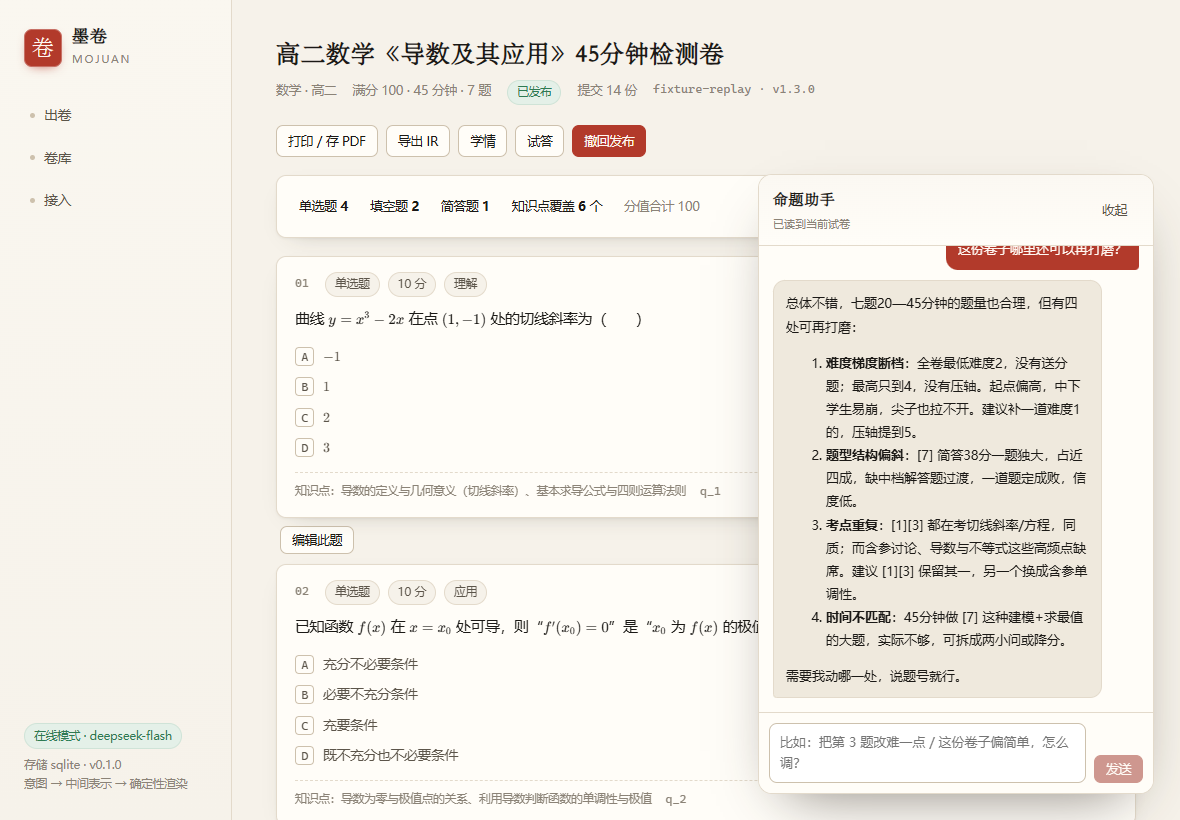
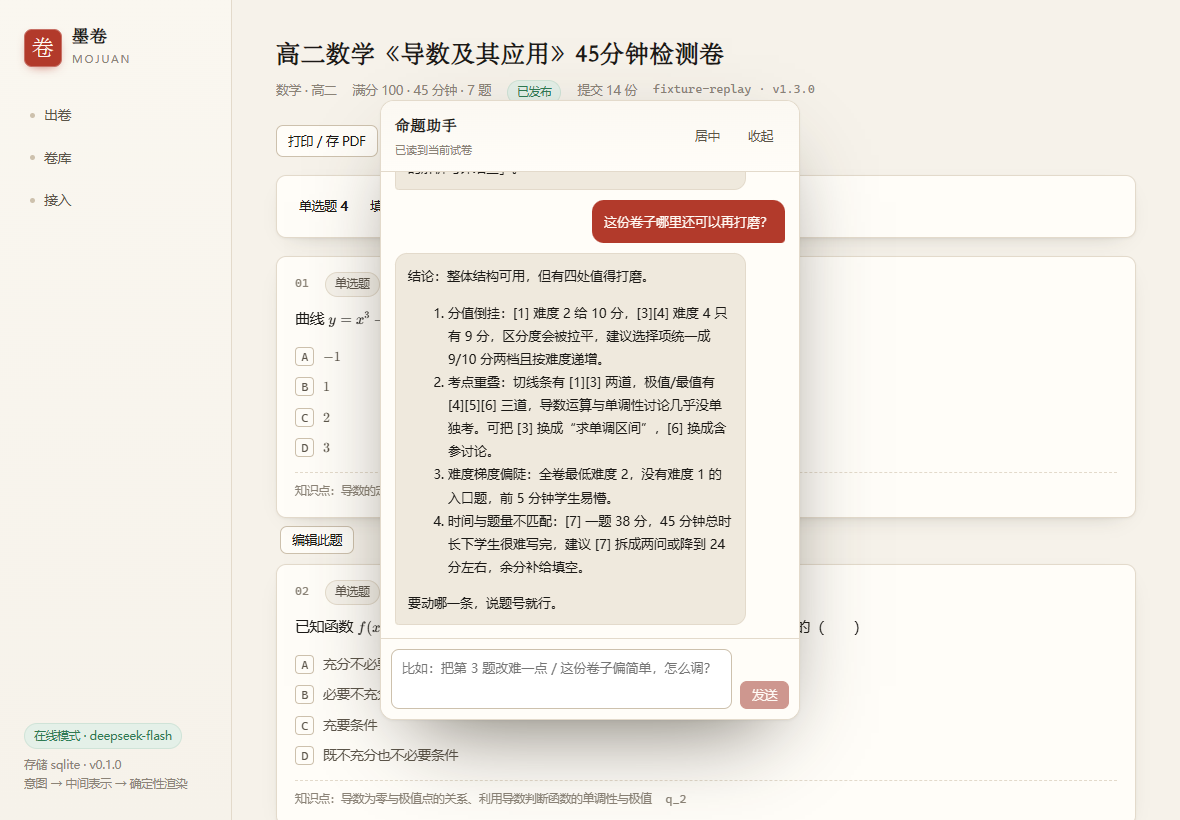
feat(assistant): 助手改为居中悬浮窗，窗口与小浮球都可拖动
- 打开时居中显示，不再挤在右下角
- 标题栏可拖动，位置存 localStorage；双击标题栏复位居中
- 收起后变回小浮球，浮球同样可拖，拖完不会误触打开面板
- Esc 关闭；窗口 resize 时自动把悬浮窗拉回可视区
- 拖动判定用 ref 而非 state：pointerup 的 setState 是异步的，click 处理器读不到新值

Prompt-ID: P18

Changed region(s): [[0.3051, 0.122, 0.9763, 1.0], [0.6407, 0.1524, 0.6712, 0.1829], [0.5797, 0.1524, 0.6102, 0.1829]]

diff --git a/web/src/components/assistant.tsx b/web/src/components/assistant.tsx
@@ -1,4 +1,4 @@
-import { useEffect, useRef, useState } from 'react'
+import { useCallback, useEffect, useRef, useState } from 'react'
 import type { AssistantContext, AssistantEvent } from '@shared/assistant.js'
 import { streamAssistant } from '../api.js'
 import { RichText } from './rich-text.js'
@@ -17,8 +17,102 @@ const GREETING: Message = {
     '我是命题助手。可以问我怎么把大纲写得更可考，也可以直接让我动手——比如「把第 3 题改难一点」「第 5 题的解析写详细些」。',
 }
 
+const PANEL_W = 420
+const PANEL_H = 620
+const MARGIN = 12
+
+function loadPos(key: string): { x: number; y: number } | null {
+  try {
+    const raw = localStorage.getItem(key)
+    if (!raw) return null
+    const parsed = JSON.parse(raw) as { x?: number; y?: number }
+    if (typeof parsed.x !== 'number' || typeof parsed.y !== 'number') return null
+    return clamp(parsed.x, parsed.y, PANEL_W, PANEL_H)
+  } catch {
+    return null
+  }
+}
+
+function clamp(x: number, y: number, w: number, h: number): { x: number; y: number } {
+  const maxX = Math.max(MARGIN, window.innerWidth - w - MARGIN)
+  const maxY = Math.max(MARGIN, window.innerHeight - h - MARGIN)
+  return { x: Math.min(Math.max(MARGIN, x), maxX), y: Math.min(Math.max(MARGIN, y), maxY) }
+}
+
 /**
- * 全局 AI 助手：悬浮在右下角，知道自己当前在哪一页、哪份卷子。
+ * 拖动：按下记起点，移动超过 3px 才认作拖拽（否则算点击）。
+ * 位置存 localStorage，下次打开还在原地；双击标题栏复位到居中。
+ */
+function useDraggable(storageKey: string, width: number, height: number) {
+  const [pos, setPos] = useState<{ x: number; y: number } | null>(() => loadPos(storageKey))
+  const [dragging, setDragging] = useState(false)
+  const drag = useRef<{ sx: number; sy: number; ox: number; oy: number; moved: boolean } | null>(null)
+  const latest = useRef(pos)
+  latest.current = pos
+  // 松手后浏览器还会补一个 click，用这个标记把它和"真的点击"区分开。
+  // 不能用 state：pointerup 里 setState 是异步的，click 处理器读到的还是旧值。
+  const lastMoved = useRef(false)
+
+  const onPointerDown = (event: React.PointerEvent<HTMLElement>): void => {
+    if (event.button !== 0) return
+    const rect = event.currentTarget.getBoundingClientRect()
+    drag.current = { sx: event.clientX, sy: event.clientY, ox: rect.left, oy: rect.top, moved: false }
+    event.currentTarget.setPointerCapture(event.pointerId)
+    setDragging(true)
+  }
+
+  const onPointerMove = (event: React.PointerEvent<HTMLElement>): void => {
+    const state = drag.current
+    if (!state) return
+    const dx = event.clientX - state.sx
+    const dy = event.clientY - state.sy
+    if (!state.moved && Math.abs(dx) + Math.abs(dy) <= 3) return
+    state.moved = true
+    setPos(clamp(state.ox + dx, state.oy + dy, width, height))
+  }
+
+  const onPointerUp = (): void => {
+    const state = drag.current
+    drag.current = null
+    setDragging(false)
+    lastMoved.current = state?.moved ?? false
+    if (state?.moved && latest.current) {
+      localStorage.setItem(storageKey, JSON.stringify(latest.current))
+    }
+  }
+
+  const reset = useCallback((): void => {
+    localStorage.removeItem(storageKey)
+    setPos(null)
+  }, [storageKey])
+
+  /** 取走"刚刚是拖拽"这一事实，取完即清 */
+  const consumeDrag = useCallback((): boolean => {
+    const moved = lastMoved.current
+    lastMoved.current = false
+    return moved
+  }, [])
+
+  // 窗口变小后把窗口拉回可视区，别让它飘到屏幕外
+  useEffect(() => {
+    const onResize = (): void => {
+      setPos((prev) => (prev ? clamp(prev.x, prev.y, width, height) : prev))
+    }
+    window.addEventListener('resize', onResize)
+    return () => window.removeEventListener('resize', onResize)
+  }, [width, height])
+
+  return {
+    pos,
+    dragging,
+    reset,
+    consumeDrag,
+    handlers: { onPointerDown, onPointerMove, onPointerUp, onPointerCancel: onPointerUp },
+  }
+}
+
+/**
+ * 全局 AI 助手：居中悬浮窗，标题栏可拖动，收起后变成可拖动的小浮球。
  * 它不只是聊天——模型可以在回答末尾挂一个动作块，服务端会真的去改题。
  */
 export function Assistant({ context }: { context: AssistantContext }) {
@@ -30,6 +124,9 @@ export function Assistant({ context }: { context: AssistantContext }) {
   const abortRef = useRef<(() => void) | null>(null)
   const listRef = useRef<HTMLDivElement>(null)
 
+  const panel = useDraggable('mujuan:assistant:panel', PANEL_W, Math.min(PANEL_H, window.innerHeight - 48))
+  const fab = useDraggable('mujuan:assistant:fab', 58, 58)
+
   useEffect(() => () => abortRef.current?.(), [])
 
   useEffect(() => {
@@ -37,6 +134,16 @@ export function Assistant({ context }: { context: AssistantContext }) {
     const el = listRef.current
     if (el) el.scrollTop = el.scrollHeight
   }, [messages, open])
+
+  // Esc 关闭：没有遮罩，键盘是主要的退出方式
+  useEffect(() => {
+    if (!open) return
+    const onKey = (e: KeyboardEvent): void => {
+      if (e.key === 'Escape') setOpen(false)
+    }
+    window.addEventListener('keydown', onKey)
+    return () => window.removeEventListener('keydown', onKey)
+  }, [open])
 
   const patchLast = (patch: Partial<Message>): void => {
     setMessages((prev) => {
@@ -109,68 +216,94 @@ export function Assistant({ context }: { context: AssistantContext }) {
     )
   }
 
+  if (!open) {
+    return (
+      <button
+        className="assistant-fab"
+        style={
+          fab.pos
+            ? { left: fab.pos.x, top: fab.pos.y, right: 'auto', bottom: 'auto' }
+            : undefined
+        }
+        title="打开命题助手（可拖动）"
+        {...fab.handlers}
+        onClick={() => {
+          // 拖动结束时浏览器仍会补一个 click，靠 consumeDrag 挡掉
+          if (!fab.consumeDrag()) setOpen(true)
+        }}
+      >
+        <span>问</span>
+        <em>助手</em>
+      </button>
+    )
+  }
+
+  const panelStyle = panel.pos
+    ? { left: panel.pos.x, top: panel.pos.y, transform: 'none' }
+    : undefined
+
   return (
-    <>
-      {!open && (
-        <button className="assistant-fab" onClick={() => setOpen(true)} title="AI 命题助手">
-          <span>问</span>
-          <em>助手</em>
-        </button>
-      )}
+    <section
+      className={`assistant-panel${panel.pos ? ' pinned' : ' centered'}${panel.dragging ? ' dragging' : ''}`}
+      style={panelStyle}
+    >
+      <header
+        className="assistant-head"
+        {...panel.handlers}
+        onDoubleClick={panel.reset}
+        title="按住可拖动，双击复位到屏幕中央"
+      >
+        <div>
+          <strong>命题助手</strong>
+          <span className="assistant-context">
+            {context.paperId ? '已读到当前试卷' : '未打开试卷'}
+          </span>
+        </div>
+        <div className="assistant-head-actions" onPointerDown={(e) => e.stopPropagation()}>
+          <button className="btn btn-sm btn-ghost" onClick={panel.reset} title="复位到屏幕中央">
+            居中
+          </button>
+          <button className="btn btn-sm btn-ghost" onClick={() => setOpen(false)} title="收起为小浮球">
+            收起
+          </button>
+        </div>
+      </header>
 
-      {open && (
-        <section className="assistant-panel">
-          <header className="assistant-head">
-            <div>
-              <strong>命题助手</strong>
-              <span className="assistant-context">
-                {context.paperId ? '已读到当前试卷' : '未打开试卷'}
+      <div className="assistant-list" ref={listRef}>
+        {messages.map((message, index) => (
+          <div key={index} className={`assistant-msg ${message.role}`}>
+            {message.content ? (
+              <RichText text={message.content} />
+            ) : (
+              <span className="assistant-typing">
+                <i />
+                <i />
+                <i />
               </span>
-            </div>
-            <button className="btn btn-sm btn-ghost" onClick={() => setOpen(false)}>
-              收起
-            </button>
-          </header>
-
-          <div className="assistant-list" ref={listRef}>
-            {messages.map((message, index) => (
-              <div key={index} className={`assistant-msg ${message.role}`}>
-                {message.content ? (
-                  <RichText text={message.content} />
-                ) : (
-                  <span className="assistant-typing">
-                    <i />
-                    <i />
-                    <i />
-                  </span>
-                )}
-                {message.note && (
-                  <div className={`assistant-note ${message.tone ?? ''}`}>{message.note}</div>
-                )}
-              </div>
-            ))}
-            {error && <div className="assistant-note err">{error}</div>}
+            )}
+            {message.note && <div className={`assistant-note ${message.tone ?? ''}`}>{message.note}</div>}
           </div>
+        ))}
+        {error && <div className="assistant-note err">{error}</div>}
+      </div>
 
-          <div className="assistant-input">
-            <textarea
-              value={input}
-              placeholder="比如：把第 3 题改难一点 / 这份卷子偏简单，怎么调？"
-              onChange={(e) => setInput(e.target.value)}
-              onKeyDown={(e) => {
-                if (e.key === 'Enter' && !e.shiftKey) {
-                  e.preventDefault()
-                  send()
-                }
-              }}
-              rows={2}
-            />
-            <button className="btn btn-sm btn-seal" onClick={send} disabled={busy || !input.trim()}>
-              {busy ? '…' : '发送'}
-            </button>
-          </div>
-        </section>
-      )}
-    </>
+      <div className="assistant-input">
+        <textarea
+          value={input}
+          placeholder="比如：把第 3 题改难一点 / 这份卷子偏简单，怎么调？"
+          onChange={(e) => setInput(e.target.value)}
+          onKeyDown={(e) => {
+            if (e.key === 'Enter' && !e.shiftKey) {
+              e.preventDefault()
+              send()
+            }
+          }}
+          rows={2}
+        />
+        <button className="btn btn-sm btn-seal" onClick={send} disabled={busy || !input.trim()}>
+          {busy ? '…' : '发送'}
+        </button>
+      </div>
+    </section>
   )
 }

diff --git a/web/src/styles.css b/web/src/styles.css
@@ -507,30 +507,49 @@ table.plain tr:last-child td { border-bottom: none; }
   width: 58px; height: 58px; border-radius: 50%;
   background: var(--seal); color: #fff8f2;
   box-shadow: 0 12px 30px -12px rgba(178, 58, 43, .95);
-  z-index: 60;
-  transition: transform .15s, box-shadow .2s;
+  z-index: 70;
+  cursor: grab;
+  user-select: none;
+  touch-action: none;
+  transition: box-shadow .2s;
 }
-.assistant-fab:hover { transform: translateY(-2px); box-shadow: 0 16px 36px -12px rgba(178, 58, 43, 1); }
+.assistant-fab:hover { box-shadow: 0 16px 36px -12px rgba(178, 58, 43, 1); }
+.assistant-fab:active { cursor: grabbing; }
 .assistant-fab span { font-family: var(--font-display); font-size: 21px; line-height: 1; }
 .assistant-fab em { font-style: normal; font-size: 9px; letter-spacing: .12em; opacity: .9; }
 
 .assistant-panel {
-  position: fixed; right: 26px; bottom: 26px;
-  width: 396px; max-width: calc(100vw - 32px);
-  height: min(620px, calc(100vh - 56px));
+  position: fixed;
+  width: 420px; max-width: calc(100vw - 24px);
+  height: min(620px, calc(100vh - 48px));
   display: flex; flex-direction: column;
   background: var(--surface);
   border: 1px solid var(--line);
   border-radius: 14px;
-  box-shadow: 0 24px 60px -28px rgba(40, 33, 22, .62);
-  z-index: 60; overflow: hidden;
-  animation: rise .2s ease both;
+  box-shadow: 0 34px 90px -34px rgba(40, 33, 22, .72), 0 1px 2px rgba(40, 33, 22, .06);
+  z-index: 70; overflow: hidden;
+  animation: assistant-in .18s cubic-bezier(.2, .8, .3, 1) both;
 }
+/* 默认居中；拖动过之后由内联 left/top 接管 */
+.assistant-panel.centered { left: 50%; top: 50%; transform: translate(-50%, -50%); }
+.assistant-panel.pinned { transform: none; animation: none; }
+.assistant-panel.dragging { box-shadow: 0 44px 110px -30px rgba(40, 33, 22, .78); }
+
+@keyframes assistant-in {
+  from { opacity: 0; transform: translate(-50%, -50%) scale(.96); }
+  to { opacity: 1; }
+}
+
 .assistant-head {
   display: flex; align-items: center; justify-content: space-between;
   padding: 12px 14px; border-bottom: 1px solid var(--line);
   background: linear-gradient(180deg, #fbf8f2, var(--surface));
+  cursor: grab;
+  user-select: none;
+  touch-action: none;
 }
+.assistant-head:active { cursor: grabbing; }
+.assistant-head-actions { display: flex; gap: 4px; align-items: center; }
 .assistant-head strong { font-family: var(--font-display); font-size: 15px; letter-spacing: .04em; }
 .assistant-context { display: block; font-size: 11px; color: var(--ink-3); margin-top: 2px; }
 

diff --git a/README.md b/README.md
@@ -187,7 +187,11 @@ cp .env.example .env
 
 ### AI 助手：会改题的，才叫助手
 
-右下角常年挂着一个「问」按钮，点开是命题助手。它知道自己**当前站在哪一页、看的是哪份卷子**。
+右下角常驻一个**可拖动的小浮球**，点开是**居中悬浮**的命题助手窗口：
+
+- 按住标题栏可以把窗口拖到任意位置，**双击标题栏**复位到屏幕中央；
+- 点「收起」或按 `Esc` 回到小浮球，小浮球本身也能拖动，位置会被记住；
+- 窗口知道自己**当前站在哪一页、看的是哪份卷子**。
 
 ![AI 助手](docs/screenshots/assistant.png)
 
